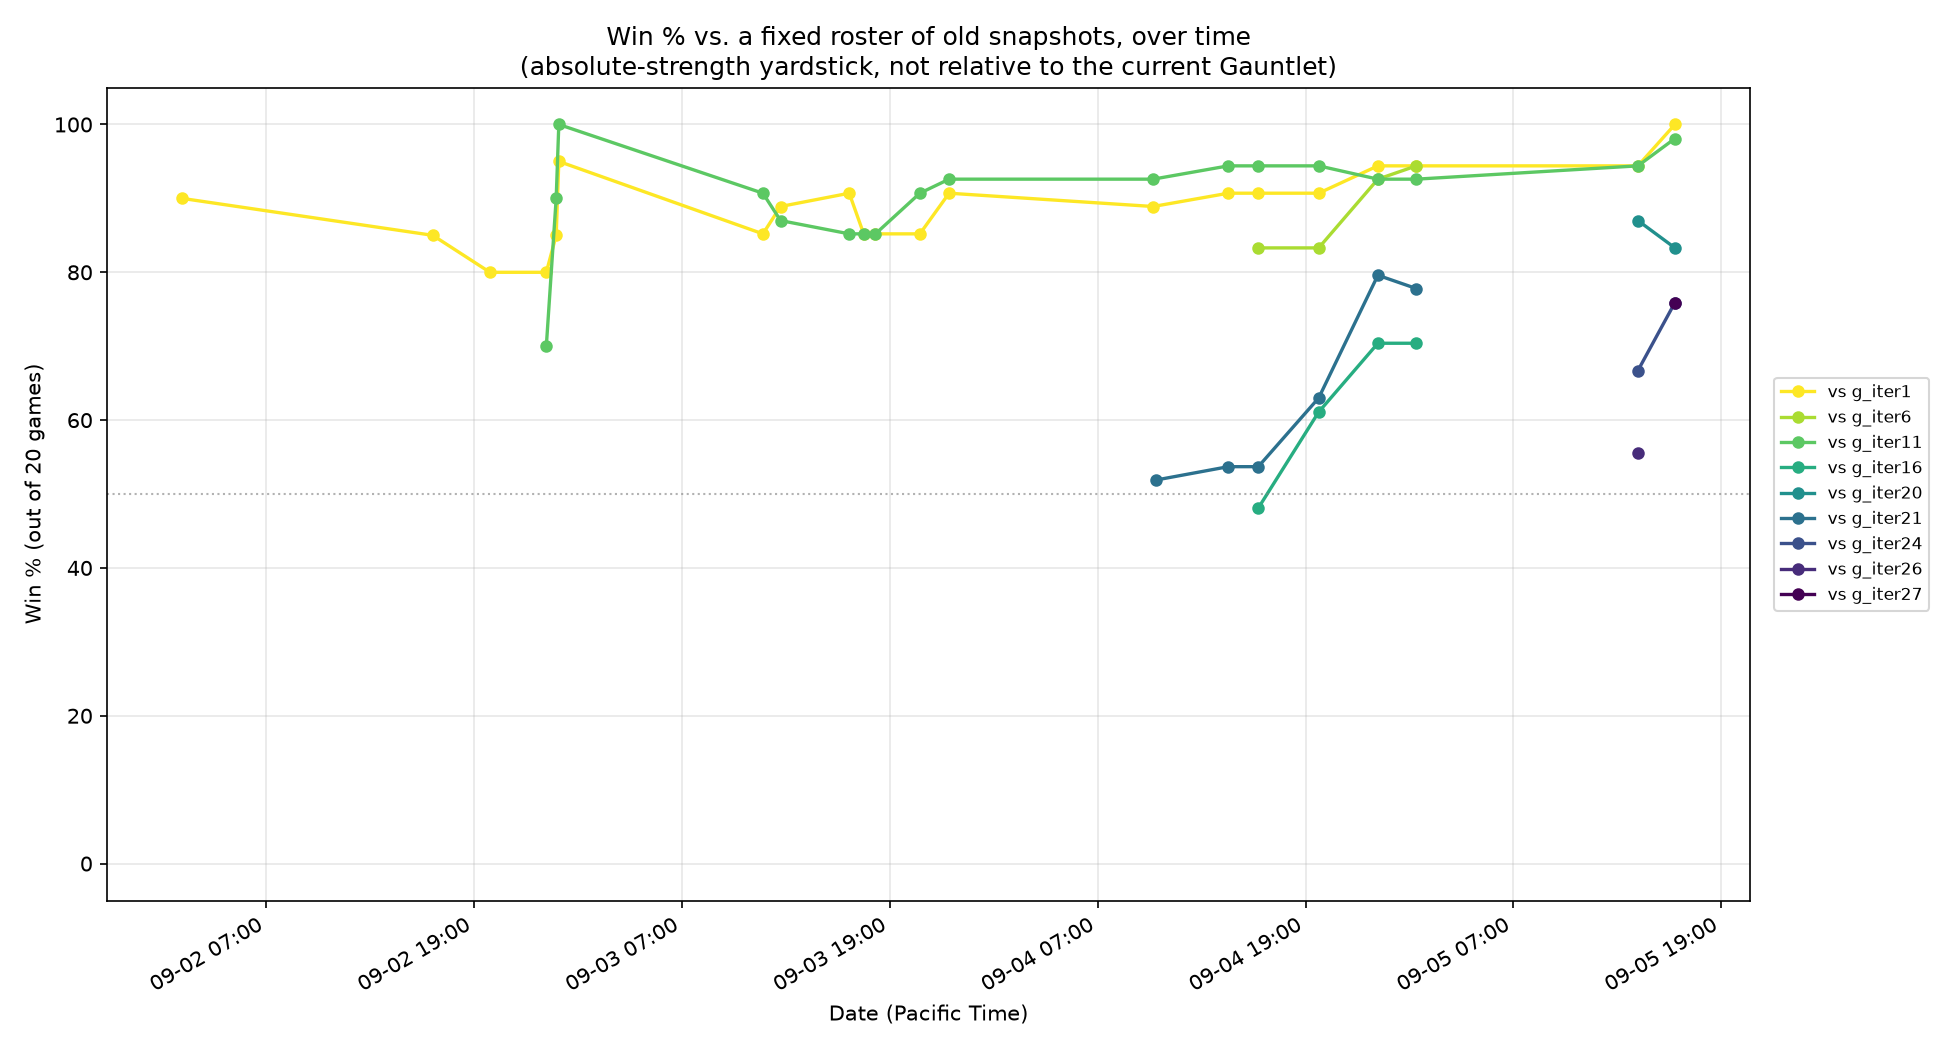
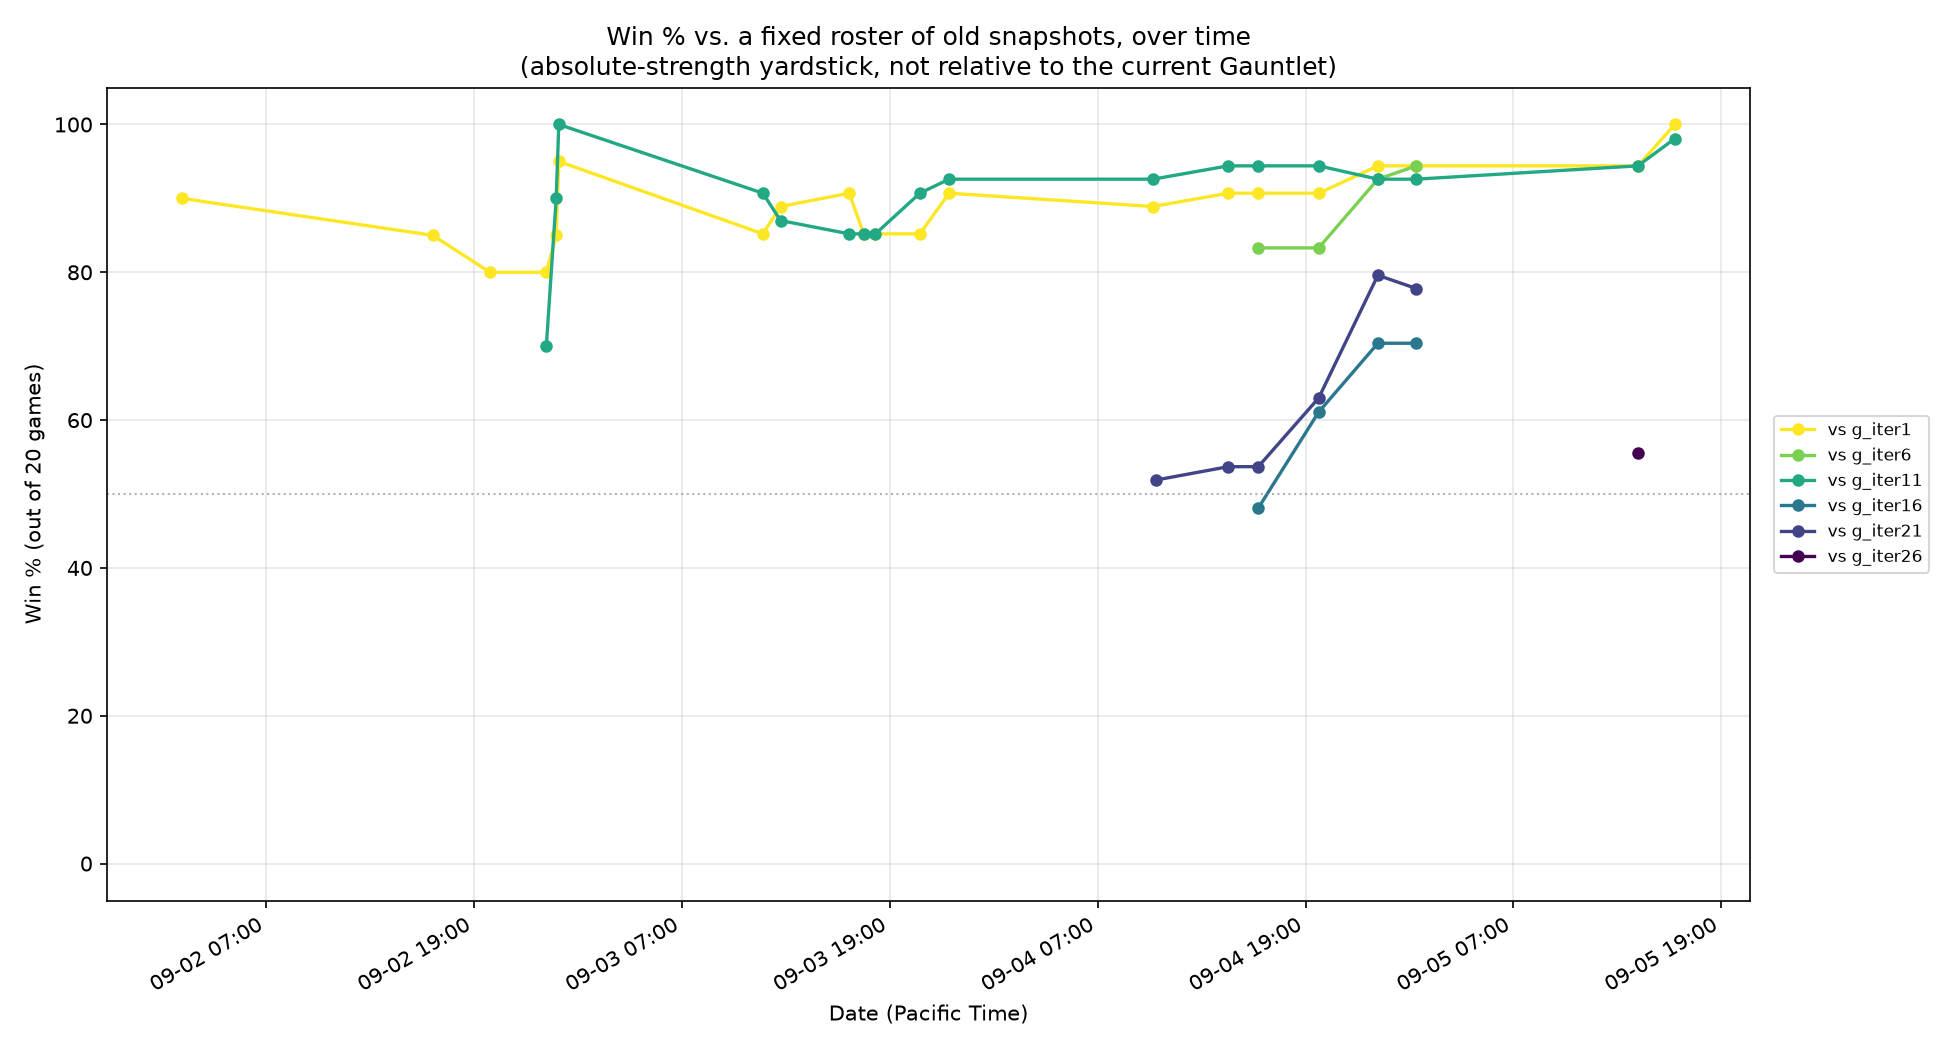
vs_old_bots: enforce the roster when appending history
The roster is every 5th accepted snapshot (N ending in 1 or 6), but
roster_opponents() existed only to PRINT the list - nothing filtered what
track_vs_old_bots.py appended. A gauntlet run usually also contains the newest
snapshot, because the pre-accept head-to-head is run in the same invocation, so
g_iter20/g_iter24/g_iter27 leaked into the history and gave the chart extra lines
starting at arbitrary dates.

Filter on append, and drop the 5 polluted rows already written.

Claude-Session: https://claude.ai/code/session_01Sgao6EtbbgQ6mM5ZhH5FGP

diff --git a/tools/track_vs_old_bots.py b/tools/track_vs_old_bots.py
@@ -90,6 +90,20 @@ def main():
             if row["bot_result"] == "win":
                 tally[opp][0] += 1
 
+    # Only ROSTER opponents may enter the history. The roster is every 5th
+    # accepted snapshot (N ending in 1 or 6); a gauntlet run often also contains
+    # the newest snapshot, because the pre-accept head-to-head is run in the same
+    # invocation. Those are a decision gate, NOT a fixed reference point, and
+    # appending them makes the chart's lines start at arbitrary dates and read as
+    # a collapse. This filter is why: roster_opponents() previously existed only
+    # to PRINT the list, and nothing enforced it.
+    roster = set(roster_opponents())
+    skipped = sorted(set(tally) - roster, key=lambda n: n)
+    for opp in skipped:
+        del tally[opp]
+    if skipped:
+        print(f"  skipped non-roster opponents: {', '.join(skipped)}")
+
     ts = run_timestamp(rundir).isoformat()
     snap = current_snapshot()
 
